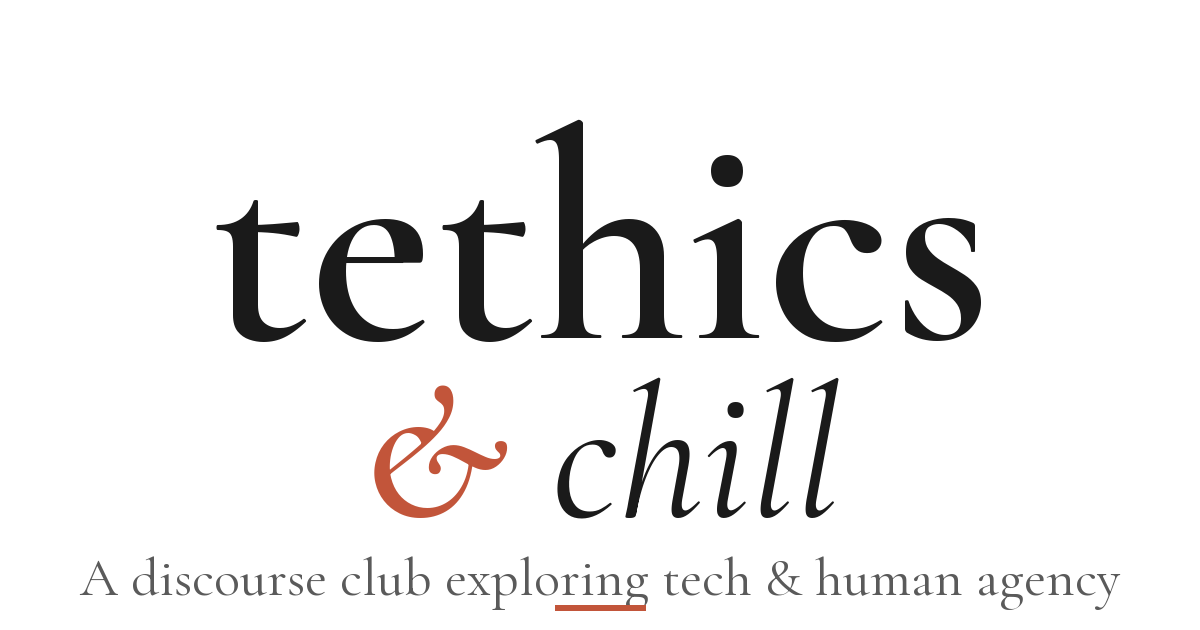
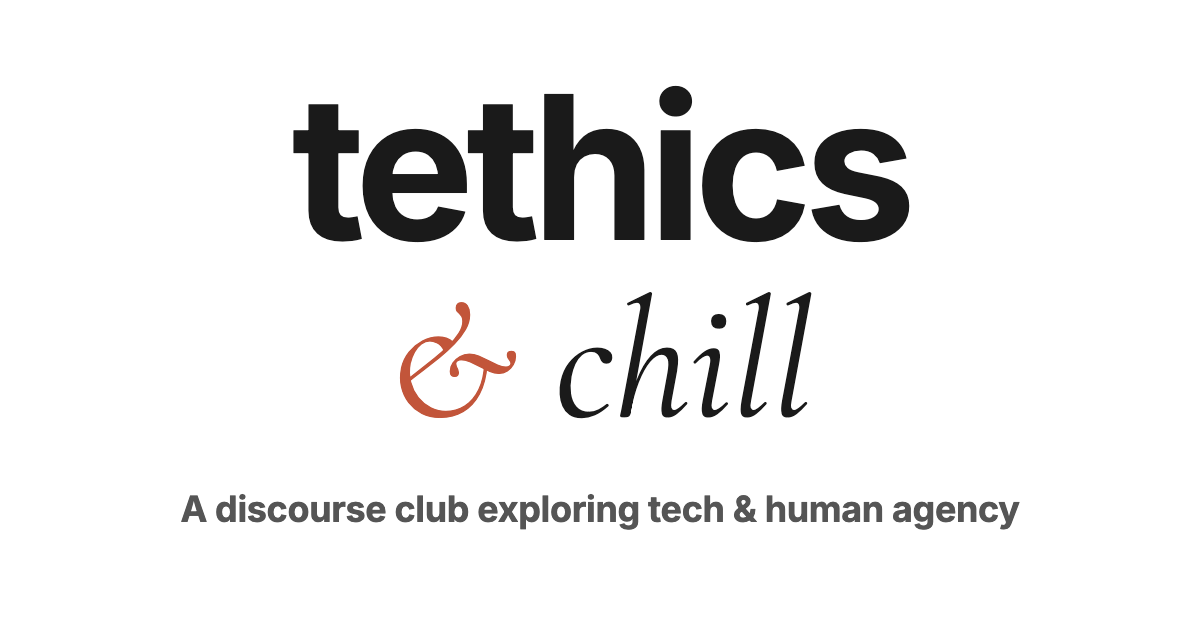
Render OG share image from actual site fonts via headless Chrome

Changed region(s): [[0.1542, 0.1206, 0.8633, 0.8444], [0.0925, 0.8746, 0.925, 0.9952], [0.0617, 0.9048, 0.0925, 0.9349]]

diff --git a/og-preview.html b/og-preview.html
@@ -1,0 +1,62 @@
+<!DOCTYPE html>
+<html lang="en">
+<head>
+<meta charset="UTF-8">
+<title>OG Preview</title>
+<link rel="preconnect" href="https://fonts.googleapis.com">
+<link rel="preconnect" href="https://fonts.gstatic.com" crossorigin>
+<link href="https://fonts.googleapis.com/css2?family=Inter:wght@700&family=Cormorant+Garamond:ital,wght@1,400;1,600&display=swap" rel="stylesheet">
+<style>
+  html, body { margin: 0; padding: 0; background: #fff; }
+  .og {
+    width: 1200px;
+    height: 630px;
+    background: #fff;
+    display: flex;
+    flex-direction: column;
+    align-items: center;
+    justify-content: center;
+    font-family: 'Inter', sans-serif;
+    color: #1a1a1a;
+  }
+  .tethics {
+    font-family: 'Inter', sans-serif;
+    font-weight: 700;
+    font-size: 200px;
+    line-height: 1;
+    letter-spacing: -0.04em;
+  }
+  .andchill {
+    font-family: 'Cormorant Garamond', Georgia, serif;
+    font-style: italic;
+    font-weight: 400;
+    font-size: 170px;
+    line-height: 1;
+    margin-top: 10px;
+  }
+  .amp { color: #c2553a; font-weight: 400; }
+  .sub {
+    font-family: 'Inter', sans-serif;
+    font-weight: 400;
+    font-size: 36px;
+    color: #555;
+    margin-top: 40px;
+    letter-spacing: -0.01em;
+  }
+  .accent {
+    width: 70px;
+    height: 4px;
+    background: #c2553a;
+    margin-top: 28px;
+  }
+</style>
+</head>
+<body>
+  <div class="og">
+    <div class="tethics">tethics</div>
+    <div class="andchill"><span class="amp">&amp;</span> chill</div>
+    <div class="sub">A discourse club exploring tech &amp; human agency</div>
+    <div class="accent"></div>
+  </div>
+</body>
+</html>
